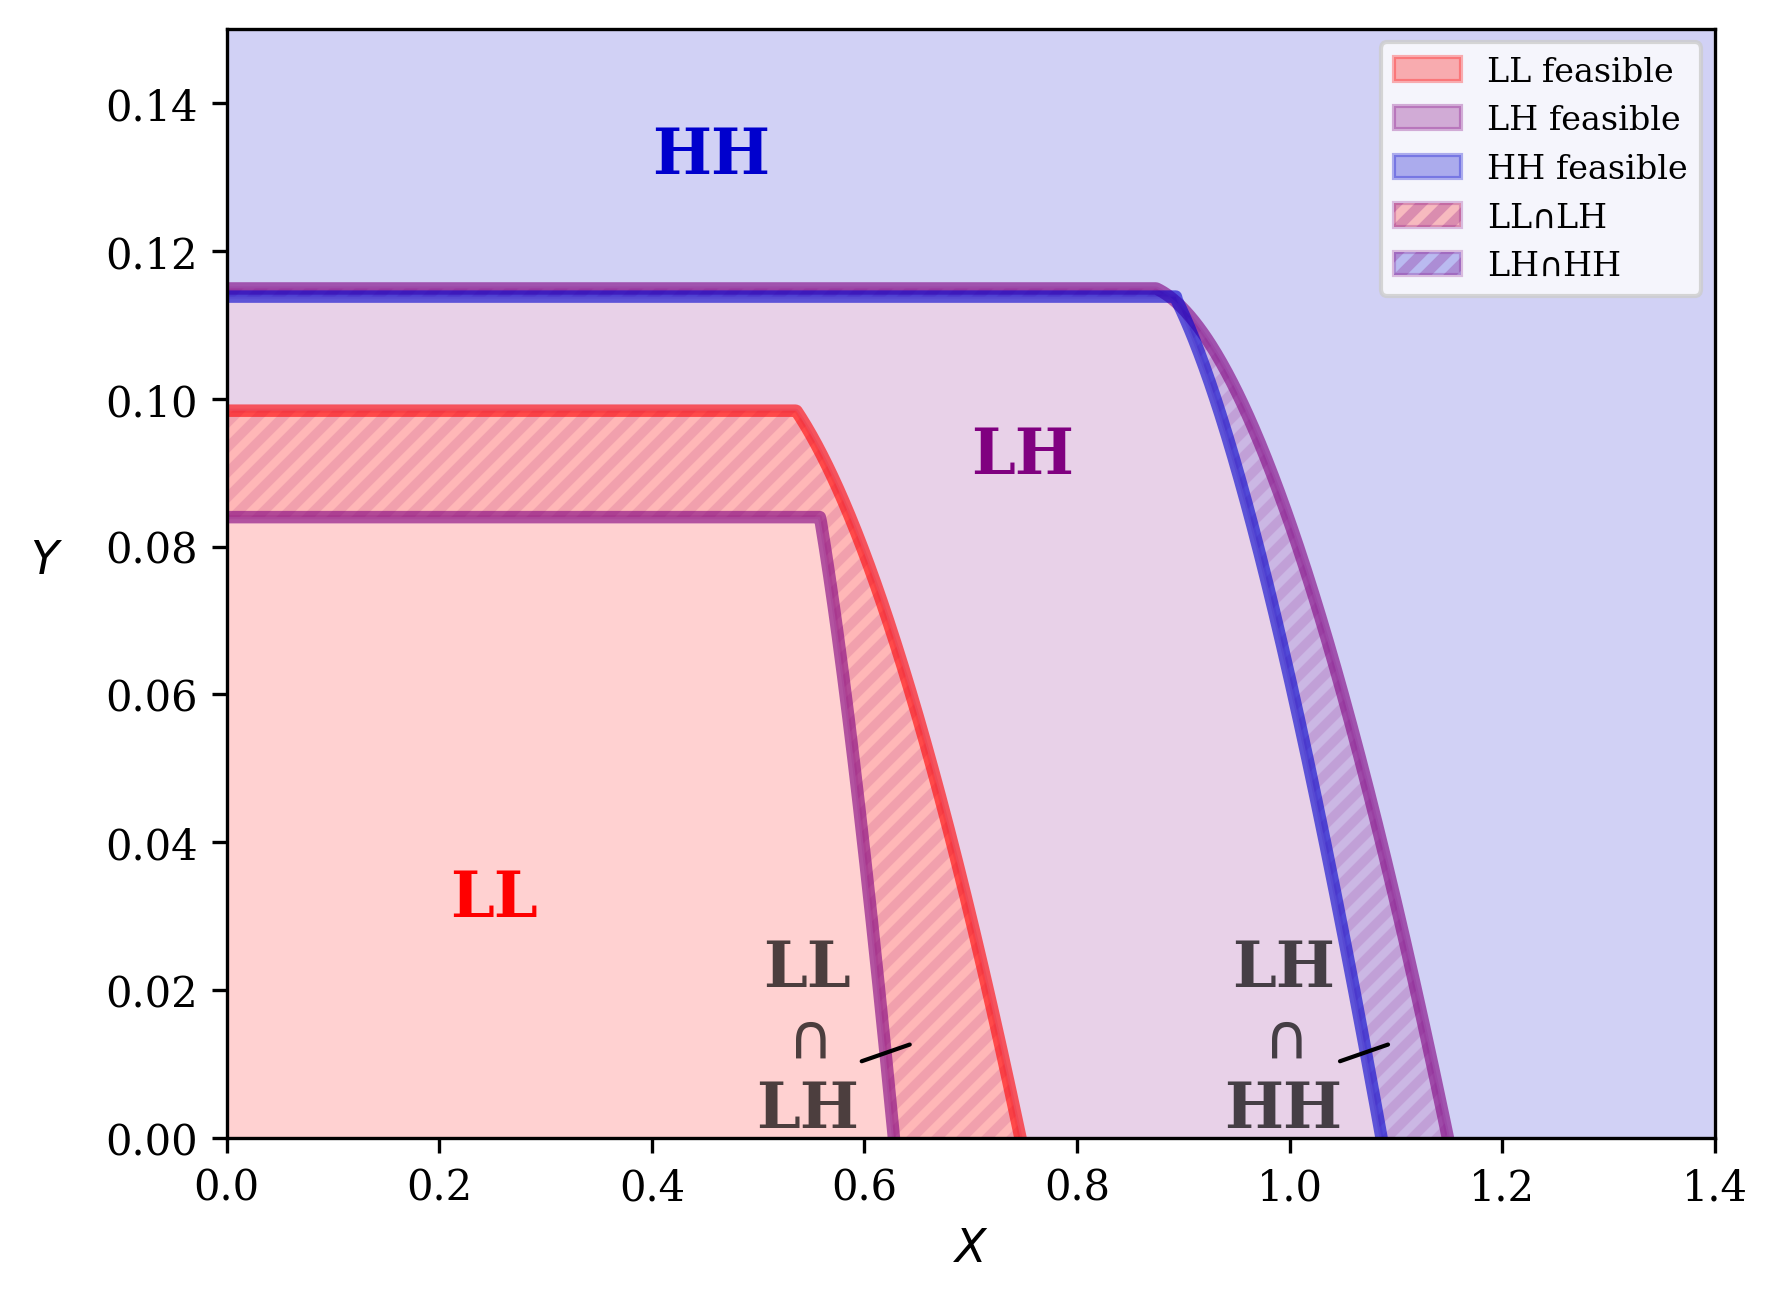
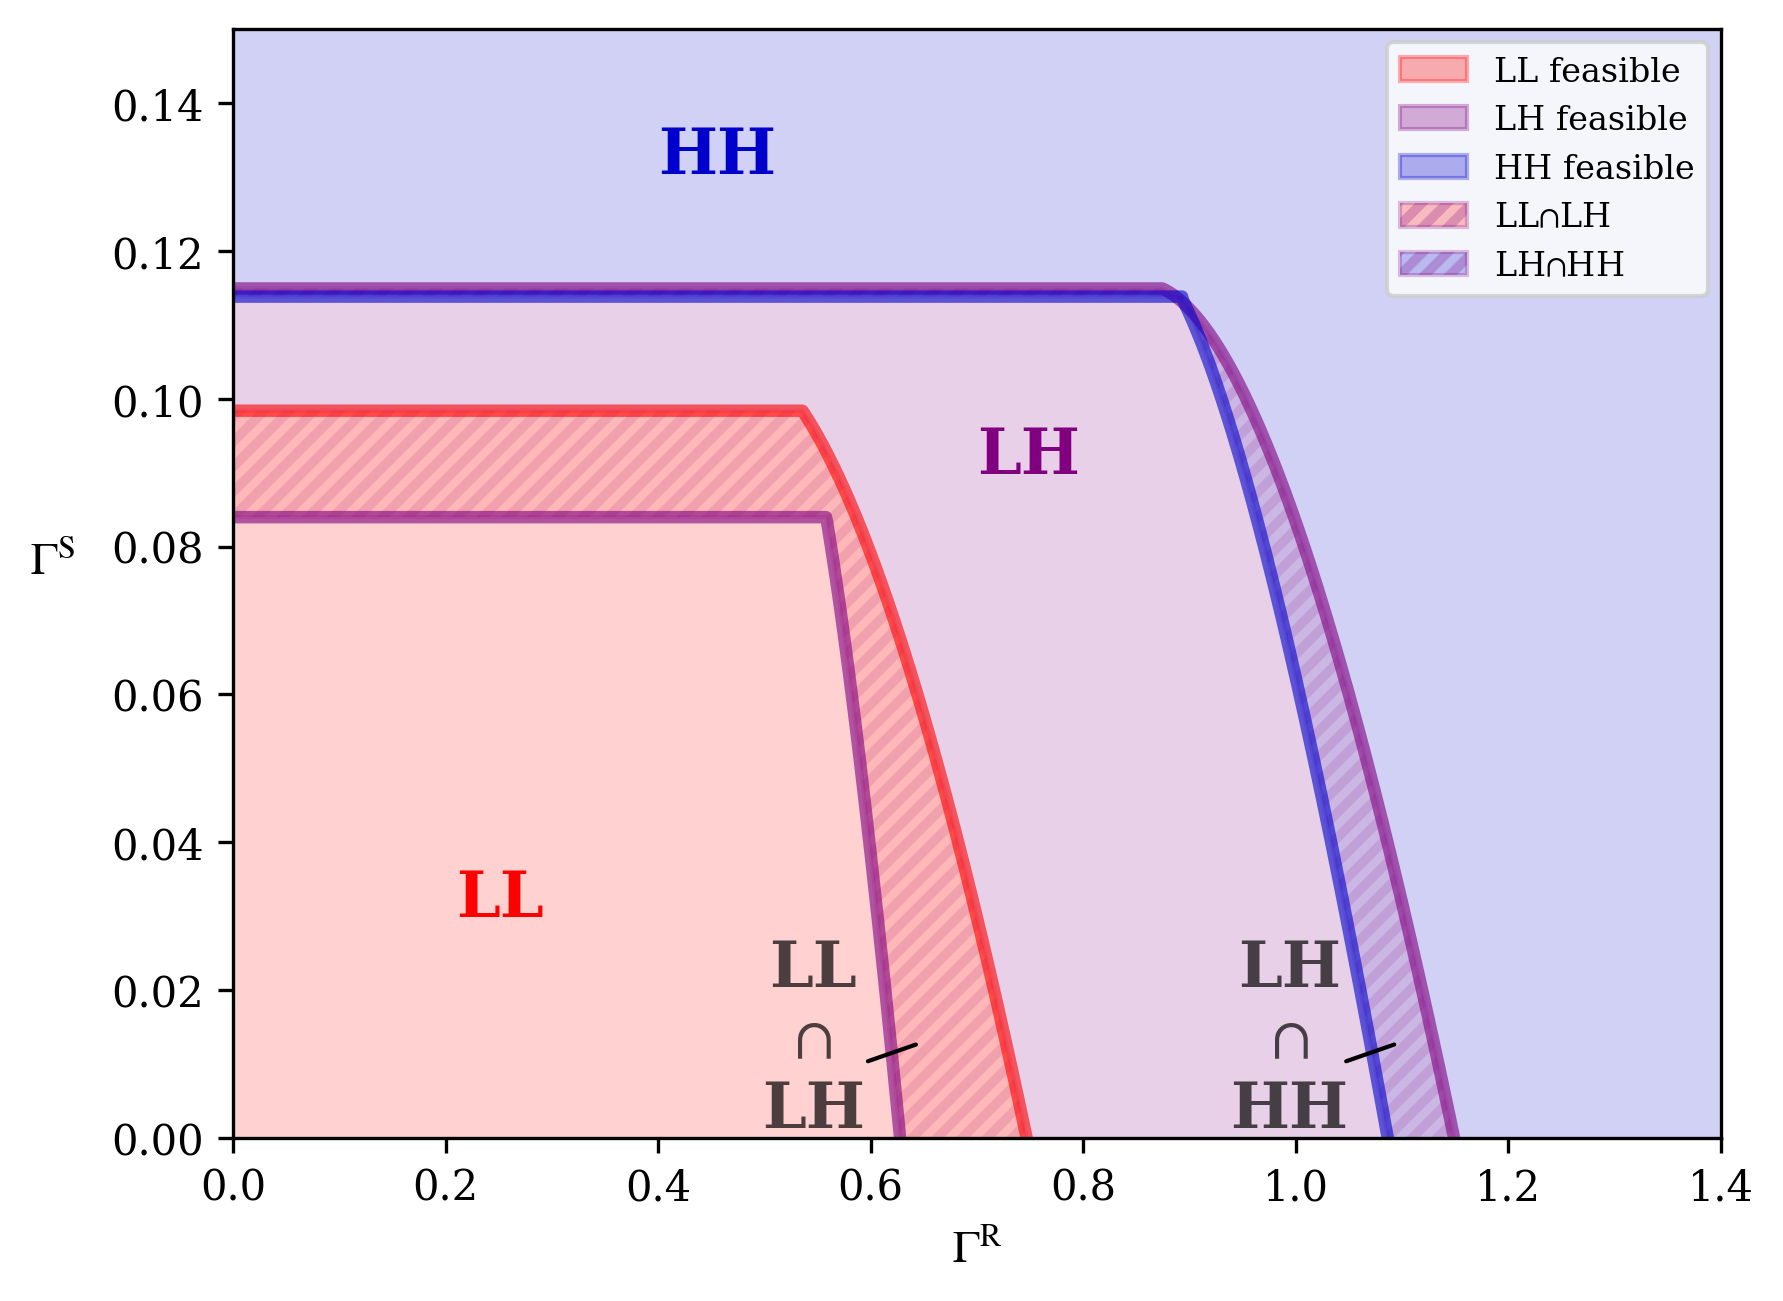
plot updates

diff --git a/plotsforpaper.py b/plotsforpaper.py
@@ -12,6 +12,7 @@ import matplotlib.pyplot as plt
 
 np.set_printoptions(precision=3, suppress=True)
 plt.rcParams["font.family"] = "serif"
+plt.rcParams['mathtext.fontset'] = 'stix'
 
 def sqroot(val):
     # Returns square root of val after checking that val is positive; returns NaN otherwise
@@ -1225,7 +1226,7 @@ plt.plot(Xvec, LHsqzprices[:, 1], '--', linewidth=lnwd, color=LHcols[1], alpha=a
 plt.plot(Xvec, HHprices[:, 0], linewidth=lnwd, color=HHcol, alpha=al)
 plt.ylim(0, 0.4)
 plt.xlim(0, Xmax)
-plt.xlabel(r'$X$', fontsize=11)
+plt.xlabel(r'$\Gamma^{\text{R}}$', fontsize=11)
 plt.ylabel(r'$w$', fontsize=11, rotation=0, labelpad=14)
 plt.text(0.09, LLprices[0, 0]+textgap, r'$LL$ (FOC)', color=LLcol, fontsize=14)
 plt.text(0.4-textgap, LLsqzprices[660, 0], r'$LL$ (sqz)', color=LLsqzcol, fontsize=14)
@@ -1277,7 +1278,7 @@ plt.plot(Yvec, HHhldprices[:, 1], linewidth=lnwd, color=HHhldcol, alpha=al)
 plt.plot(Yvec, HHprices[:, 0], linewidth=lnwd, color=HHcol, alpha=al)
 plt.ylim(0, 0.4)
 plt.xlim(0, Ymax)
-plt.xlabel(r'$Y$', fontsize=11)
+plt.xlabel(r'$\Gamma^{\text{S}}$', fontsize=11)
 plt.ylabel(r'$w$', fontsize=11, rotation=0, labelpad=14)
 plt.text(0.002, 0.18, r'$LL$ (FOC)', color=LLcol, fontsize=14)
 plt.text(0.035, 0.295, r'$LH$ (hld)', color=LHcols[2], fontsize=14)
@@ -1378,8 +1379,8 @@ ax.set_xbound(0, Xmax/Kpen)
 ax.set_ybound(0, Ymax/Kpen)
 # plt.xlabel(r'$\theta^{\text{R}}$', fontsize=11)
 # plt.ylabel(r'$\theta^{\text{S}}$', fontsize=11, rotation=0, labelpad=14)
-plt.xlabel(r'$X$', fontsize=11)
-plt.ylabel(r'$Y$', fontsize=11, rotation=0, labelpad=14)
+plt.xlabel(r'$\Gamma^{\text{R}}$', fontsize=11)
+plt.ylabel(r'$\Gamma^{\text{S}}$', fontsize=11, rotation=0, labelpad=14)
 plt.savefig('eqplot_example.png', dpi=300, bbox_inches='tight')
 plt.show()
 
@@ -1471,7 +1472,7 @@ plt.savefig('CS_parac.png', dpi=300, bbox_inches='tight')
 plt.show()
 
 #####################
-# Equilibrium plots
+# Retailer extension plots
 #####################
 def RetPrefh12Overl12(X, scDict):
     cRet, priceSup_2, priceSup_1 = scDict['cRet'], scDict['priceSup_2'], scDict['priceSup_1']
@@ -1743,13 +1744,112 @@ for i in range(numpts):
             print('point ' + str(i) + ' '+ str(j))
             plotMat[i, j, 2] = 1.0
 
-alval=0.5
+# Get line segments for boundaries
+# First get intersection points
+def BDh12l12(w, X, scDict):
+    rhoR, b, cR, h, l = scDict['inspSensRet'], scDict['b'], scDict['cRet'], scDict['rateRetHi'], scDict['rateRetLo']
+    numer = sqroot( cR*(2 - cR - 2 * w))
+    denom = sqroot( 2*(1 + b) * (h - l) * X * rhoR)
+    return numer / denom
+
+def BDh12h1(w, X, scDict):
+    rhoR, b, cR, h, l = scDict['inspSensRet'], scDict['b'], scDict['cRet'], scDict['rateRetHi'], scDict['rateRetLo']
+    inner = h * X * rhoR * ((b ** 2 - 1) * (cR + w - 1) ** 2 + (1 + b) ** 2 * h * X * rhoR)
+    return 0.5 * (1 + sqroot(inner) / ((1 + b) * h * X * rhoR))
+
+def wStartBDh1l12(X, scDict):
+    rhoR, b, cR, h, l = scDict['inspSensRet'], scDict['b'], scDict['cRet'], scDict['rateRetHi'], scDict['rateRetLo']
+    numer = (-(1 + b * (cR - 1) + cR) * l
+            + sqroot((1 + b) * l * (2 * cR ** 2 * l - (b - 1) * h ** 2 * X * rhoR)))
+    denom = (b - 1) * l
+    return numer / denom
+
+def BDh1l12A(w, X, scDict):
+    rhoR, b, cR, h, l = scDict['inspSensRet'], scDict['b'], scDict['cRet'], scDict['rateRetHi'], scDict['rateRetLo']
+    inner = (1 + b) * X * rhoR * (l * (cR ** 2 + 2 * cR * (w - 1) - (w - 1) ** 2 + b * (cR + w - 1) ** 2)
+            + (1 + b) * h ** 2 * X * rhoR)
+    numer = (1 + b) * h * X * rhoR + sqroot(inner)
+    denom = 2 * (1 + b) * l * X * rhoR
+    return numer / denom
+
+def BDh1l12B(w, X, scDict):
+    rhoR, b, cR, h, l = scDict['inspSensRet'], scDict['b'], scDict['cRet'], scDict['rateRetHi'], scDict['rateRetLo']
+    inner = (1 + b) * X * rhoR * (l * (cR ** 2 + 2 * cR * (w - 1) - (w - 1) ** 2 + b * (cR + w - 1) ** 2)
+            + (1 + b) * h ** 2 * X * rhoR)
+    numer = (1 + b) * h * X * rhoR - sqroot(inner)
+    denom = 2 * (1 + b) * l * X * rhoR
+    return numer / denom
+
+def BDh1l1(w, X, scDict):
+    rhoR, b, cR, h, l = scDict['inspSensRet'], scDict['b'], scDict['cRet'], scDict['rateRetHi'], scDict['rateRetLo']
+    return cR * (2 - cR - 2 * w) / (4 * (h - l) * X * rhoR)
+
+def wStartBDl1l12A(X, scDict):
+    rhoR, b, cR, h, l = scDict['inspSensRet'], scDict['b'], scDict['cRet'], scDict['rateRetHi'], scDict['rateRetLo']
+    return 1 - ((1 + b) * l * X * rhoR / (1 - b)) ** 0.5
+
+def BDl1l12A(w, X, scDict):
+    rhoR, b, cR, h, l = scDict['inspSensRet'], scDict['b'], scDict['cRet'], scDict['rateRetHi'], scDict['rateRetLo']
+    inner = l * X * rhoR * ((b ** 2 - 1) * (w - 1) ** 2 + (1 + b) ** 2 * l * X * rhoR)
+    return 0.5 * (1 + sqroot(inner) / ((1 + b) * l * X * rhoR))
+
+def BDl1l12B(w, X, scDict):
+    rhoR, b, cR, h, l = scDict['inspSensRet'], scDict['b'], scDict['cRet'], scDict['rateRetHi'], scDict['rateRetLo']
+    inner = l * X * rhoR * ((b ** 2 - 1) * (w - 1) ** 2 + (1 + b) ** 2 * l * X * rhoR)
+    return 0.5 * (1 - sqroot(inner) / ((1 + b) * l * X * rhoR))
+
+# First plot: X = 0.08
+# List approximate intersection points here
+wInt1, wInt2, wInt3, wInt4 = 0.424, 0.443, 0.58, 0.54
+wBDh1l12, wBDl1l12 = wStartBDh1l12(X, scDict), wStartBDl1l12A(X, scDict)
+
+# Get boundary lines
+wVec = np.arange(0.01, 0.99, (0.99-0.01)/numpts)
+wAVec, wYVec, wBVec, bdAVec, bdYVec, bdBVec = [], [], [], [], [], []
+bdAadj, bdAadj2, bdBadj = 0.022, 0.019,0.0025
+bdYadj = 0.010
+for wCurr in wVec:
+    if wCurr <= wInt1:
+        wAVec.append(wCurr)
+        bdAVec.append(BDh12l12(wCurr, X, scDict)+bdAadj)
+        wYVec.append(wCurr)
+        bdYVec.append(BDh12l12(wCurr, X, scDict)+bdYadj)
+    elif wCurr > wInt1+0.002:
+        wAVec.append(wCurr)
+        bdAVec.append(BDh12h1(wCurr, X, scDict)+bdAadj2)
+    if wCurr <= wInt1-0.009:
+        wBVec.append(wCurr)
+        bdBVec.append(BDh12l12(wCurr, X, scDict) - bdBadj)
+    if wCurr >= wBDh1l12 and wCurr <= wInt1: # Upper portion of h1-l12 boundary
+        wYVec.append(wCurr+0.005)
+        bdYVec.append(BDh1l12A(wCurr, X, scDict)+bdYadj)
+    if wCurr >= wBDh1l12 and wCurr <= wInt2: # Lower portion of h1-l12 boundary
+        wYVec.append(wCurr)
+        bdYVec.append(BDh1l12B(wCurr, X, scDict)+bdYadj)
+        wBVec.append(wCurr-0.008)
+        bdBVec.append(BDh1l12B(wCurr, X, scDict))
+    if wCurr > wInt2 and wCurr < wInt3:  # h1-l1 boundary
+        wYVec.append(wCurr)
+        bdYVec.append(BDh1l1(wCurr, X, scDict))
+for wCurr in reversed(wVec):
+    if wCurr >= wBDh1l12 and wCurr <= wInt1-0.006: # Upper portion of h1-l12 boundary
+        wBVec.append(wCurr - 0.02)
+        bdBVec.append(BDh1l12A(wCurr, X, scDict))
+    if wCurr >= wBDl1l12 and wCurr < wInt2-0.003: # Upper portion of l1-l12 boundary
+        wBVec.append(wCurr)
+        bdBVec.append(BDl1l12A(wCurr, X, scDict))
+for wCurr in wVec:
+    if wCurr >= wBDl1l12 and wCurr <= wInt4: # Lower portion of l1-l12 boundary
+        wBVec.append(wCurr)
+        bdBVec.append(BDl1l12B(wCurr, X, scDict))
+
+alval, reglabsize, bdlabsize, bdWidth = 0.5, 18, 22, 2.5
 fig = plt.figure()
 # ax.set_title(rf"Equilibrium regions ($b=0.8,\ c_S={cS}$)", fontsize=12, pad=16)
 # fig.suptitle(r'$b=$'+str(b)+', '+r'$L=$'+str(supRateLo),fontsize=18, fontweight='bold')
 ax = fig.add_subplot(111)
 
-eqcolors = ['royalblue', 'firebrick', 'cornflowerblue', 'indianred', 'dimgray']
+eqcolors = ['royalblue', 'indianred', 'cornflowerblue', 'lightcoral', 'dimgray']
 labels = ['h12', 'l12', 'h1', 'l1', 'N']
 
 imlist = []
@@ -1764,21 +1864,164 @@ for eqind in reversed(range(len(labels))):
                             extent=(0, 1, 0, 1),
                             origin="lower", cmap=mycmap, alpha=alval)
     imlist.append(im)
+# Plot boundaries
+plt.plot(wAVec, bdAVec, dashes=[0.7, 0.7], color='indigo', alpha=0.8, linewidth=bdWidth)
+plt.plot(wYVec, bdYVec, '-.', color='darkgreen', alpha=0.8, linewidth=bdWidth)
+plt.plot(wBVec, bdBVec, '--', color='saddlebrown', alpha=0.8, linewidth=bdWidth)
 plt.ylim(0, 1.0)
 plt.xlim(0, 1.0)
-plt.text(0.85, 0.5, 'N', color='dimgray', fontsize=18)
-plt.text(0.37, 0.92, 'h12', color='dimgray', fontsize=18)
-plt.text(0.1, 0.3, 'l12', color='dimgray', fontsize=18)
-plt.text(0.52, 0.72, 'h1', color='dimgray', fontsize=18)
-plt.text(0.48, 0.39, 'l1', color='dimgray', fontsize=18)
-plt.xlabel(r'$w_1=w_2$', fontsize=11)
-plt.ylabel(r'$\Lambda_1=\Lambda_2$', fontsize=11, rotation=0, labelpad=14)
-# plt.savefig('retailerStratPrefs.png', dpi=300, bbox_inches='tight')
+plt.text(0.85, 0.5, 'N', color='dimgray', fontsize=reglabsize)
+plt.text(0.37, 0.92, 'h12', color='dimgray', fontsize=reglabsize)
+plt.text(0.1, 0.3, 'l12', color='dimgray', fontsize=reglabsize)
+plt.text(0.57, 0.71, 'h1', color='dimgray', fontsize=reglabsize)
+plt.text(0.48, 0.39, 'l1', color='dimgray', fontsize=reglabsize)
+plt.text(0.57, 0.85, r'$\mathbf{\Lambda}^\text{A}$', color='indigo', fontsize=bdlabsize, alpha=0.9)
+plt.text(0.46, 0.61, r'$\mathbf{\Lambda}^\text{Y}$', color='darkgreen', fontsize=bdlabsize, alpha=0.9)
+plt.text(0.35, 0.35, r'$\mathbf{\Lambda}^\text{B}$', color='saddlebrown', fontsize=bdlabsize, alpha=0.9)
+plt.xlabel(r'$w_1=w_2$', fontsize=14)
+plt.ylabel(r'$\Lambda_1=\Lambda_2$', fontsize=14, rotation=0, labelpad=10)
+ax.yaxis.set_label_coords(-0.09, 0.47)
+plt.savefig('retailerStratPrefs1.png', dpi=300, bbox_inches='tight')
 plt.show()
 
+###
+# Second plot: X = 0.16
+###
+b, cRet, rateSup_1, rateSup_2, rateRetLo, rateRetHi = 0.8, 0.04, 0.92, 0.92, 0.6, 0.9
+inspSensRet, priceSup_1, priceSup_2 = 0.75, 0.25, 0.25
+X = 0.16
+scDict = {'b': b, 'cRet': cRet, 'rateRetLo': rateRetLo, 'rateRetHi': rateRetHi, 'inspSensRet': inspSensRet,
+          'rateSup_1': rateSup_1, 'rateSup_2': rateSup_2, 'priceSup_1': priceSup_1, 'priceSup_2': priceSup_2}
+# Shows the retailer's preferred strategy for various wholesale prices and quality rates of symmetric suppliers
+numpts = 1200  # Resolution of prices and rates
 
+plotMat = np.empty((numpts, numpts, 5))  # h12, l12, h1, l1, N; h2/l2 ignored for symmetric case
+plotMat[:] = 0
+for wInd, wCurr in enumerate(np.arange(0.01,0.99,(0.99-0.01)/numpts)):
+    scDict['priceSup_1'], scDict['priceSup_2'] = wCurr, wCurr
+    for supRateInd, supRateCurr in enumerate(np.arange(0.01, 0.99, (0.99 - 0.01) / numpts)):
+        scDict['rateSup_1'], scDict['rateSup_2'] = supRateCurr, supRateCurr
+        # Identify dominant retailer strategy
+        prefh12l12 = RetPrefh12Overl12(X, scDict)
+        prefh1h12 = RetPrefh1Overh12(X, scDict)
+        prefl1l12 = RetPrefl1Overl12(X, scDict)
+        prefh1l1 = RetPrefh1Overl1(X, scDict)
+        prefh1l12 = RetPrefh1Overl12(X, scDict)
+        prefh12l1 = RetPrefh12Overl1(X, scDict)
+        # h12
+        if prefh12l12 == 1 and prefh1h12 == 0 and prefh12l1 == 1:
+            q1, q2 = RetOptQuants(0, scDict['b'], scDict['cRet'], scDict['priceSup_1'], scDict['priceSup_2'])
+            if RetUtil(X, scDict, 1, supRateCurr, supRateCurr, q1, q2) < 0:  # N strategy dominates
+                plotMat[wInd, supRateInd, 4] = 1
+            else:
+                plotMat[wInd, supRateInd, 0] = 1
+        # l12
+        if prefh12l12 == 0 and prefl1l12 == 0 and prefh1l12 == 0:
+            q1, q2 = RetOptQuants(1, scDict['b'], scDict['cRet'], scDict['priceSup_1'], scDict['priceSup_2'])
+            if RetUtil(X, scDict, 0, supRateCurr, supRateCurr, q1, q2) < 0:  # N strategy dominates
+                plotMat[wInd, supRateInd, 4] = 1
+            else:
+                plotMat[wInd, supRateInd, 1] = 1
+        # h1
+        if prefh1h12 == 1 and prefh1l1 == 1 and prefh1l12 == 1:
+            q1, q2 = RetOptQuants(2, scDict['b'], scDict['cRet'], scDict['priceSup_1'], scDict['priceSup_2'])
+            if RetUtil(X, scDict, 1, supRateCurr, supRateCurr, q1, q2) < 0:  # N strategy dominates
+                plotMat[wInd, supRateInd, 4] = 1
+            else:
+                plotMat[wInd, supRateInd, 2] = 1
+        # l12
+        if prefl1l12 == 1 and prefh1l1 == 0 and prefh12l1 == 0:
+            q1, q2 = RetOptQuants(3, scDict['b'], scDict['cRet'], scDict['priceSup_1'], scDict['priceSup_2'])
+            if RetUtil(X, scDict, 0, supRateCurr, supRateCurr, q1, q2) < 0:  # N strategy dominates
+                plotMat[wInd, supRateInd, 4] = 1
+            else:
+                plotMat[wInd, supRateInd, 3] = 1
 
+# Fill in weird high w points w N
+plotMat[round(0.9*numpts):, :, 2] = 0.0
+plotMat[round(0.9*numpts):, :, 4] = 1.0
+# Fill in blanks
+for i in range(numpts):
+    for j in range(numpts):
+        if np.sum(plotMat[i, j, :]) != 1.0:
+            print('point ' + str(i) + ' '+ str(j))
+            plotMat[i, j, 2] = 1.0
 
+# List approximate intersection points here
+wInt1, wInt2, wInt3, wInt4 = 0.07, 0.21, 0.38, 0.35
+wBDh1l12, wBDl1l12 = wStartBDh1l12(X, scDict), wStartBDl1l12A(X, scDict)
+
+# Get boundary lines
+wVec = np.arange(0.01, 0.99, (0.99-0.01)/numpts)
+wAVec, wYVec, wBVec, bdAVec, bdYVec, bdBVec = [], [], [], [], [], []
+bdAadj, bdAadj2, bdBadj = 0.022, 0.019,0.0025
+bdYadj = 0.010
+for wCurr in wVec:
+    if wCurr <= wInt1:
+        wAVec.append(wCurr)
+        bdAVec.append(BDh12l12(wCurr, X, scDict)+bdAadj)
+        wYVec.append(wCurr)
+        bdYVec.append(BDh12l12(wCurr, X, scDict)+bdYadj)
+    elif wCurr > wInt1+0.02:
+        wAVec.append(wCurr)
+        bdAVec.append(BDh12h1(wCurr, X, scDict)+bdAadj2)
+    if wCurr <= wInt1-0.009:
+        wBVec.append(wCurr)
+        bdBVec.append(BDh12l12(wCurr, X, scDict) - bdBadj)
+    if wCurr >= wBDh1l12 and wCurr <= wInt1: # Upper portion of h1-l12 boundary
+        wYVec.append(wCurr+0.005)
+        bdYVec.append(BDh1l12A(wCurr, X, scDict)+bdYadj)
+    if wCurr >= wBDh1l12 and wCurr <= wInt2: # Lower portion of h1-l12 boundary
+        wYVec.append(wCurr)
+        bdYVec.append(BDh1l12B(wCurr, X, scDict)+bdYadj)
+        wBVec.append(wCurr-0.008)
+        bdBVec.append(BDh1l12B(wCurr, X, scDict))
+    if wCurr > wInt2 and wCurr < wInt3:  # h1-l1 boundary
+        wYVec.append(wCurr)
+        bdYVec.append(BDh1l1(wCurr, X, scDict))
+for wCurr in wVec:
+    if wCurr >= wBDl1l12+0.01 and wCurr <= wInt4: # Lower portion of l1-l12 boundary
+        wBVec.append(wCurr)
+        bdBVec.append(BDl1l12B(wCurr, X, scDict))
+
+alval, reglabsize, bdlabsize, bdWidth = 0.5, 18, 22, 2.5
+
+fig = plt.figure()
+ax = fig.add_subplot(111)
+eqcolors = ['royalblue', 'indianred', 'cornflowerblue', 'lightcoral', 'dimgray']
+labels = ['h12', 'l12', 'h1', 'l1', 'N']
+
+imlist = []
+for eqind in reversed(range(len(labels))):
+    mycmap = matplotlib.colors.ListedColormap(['none', eqcolors[eqind]], name='from_list', N=None)
+    # if eqcolors[eqind] == 'black':  # No alpha transparency
+    #     im = ax.imshow(eqStrat_matList[eqind], vmin=0, vmax=1, aspect='auto',
+    #                         extent=(0, CthetaMax, 0, cSupMax),
+    #                         origin="lower", cmap=mycmap, alpha=1)
+    # else:
+    im = ax.imshow(plotMat[:,:,eqind].T, vmin=0, vmax=1, aspect='auto',
+                            extent=(0, 1, 0, 1),
+                            origin="lower", cmap=mycmap, alpha=alval)
+    imlist.append(im)
+# Plot boundaries
+plt.plot(wAVec, bdAVec, dashes=[0.7, 0.7], color='indigo', alpha=0.8, linewidth=bdWidth)
+plt.plot(wYVec, bdYVec, '-.', color='darkgreen', alpha=0.8, linewidth=bdWidth)
+plt.plot(wBVec, bdBVec, '--', color='saddlebrown', alpha=0.8, linewidth=bdWidth)
+plt.ylim(0, 1.0)
+plt.xlim(0, 1.0)
+plt.text(0.85, 0.5, 'N', color='dimgray', fontsize=reglabsize)
+plt.text(0.03, 0.89, 'h12', color='dimgray', fontsize=reglabsize)
+plt.text(0.05, 0.17, 'l12', color='dimgray', fontsize=reglabsize)
+plt.text(0.35, 0.59, 'h1', color='dimgray', fontsize=reglabsize)
+plt.text(0.29, 0.28, 'l1', color='dimgray', fontsize=reglabsize)
+plt.text(0.35, 0.835, r'$\mathbf{\Lambda}^\text{A}$', color='indigo', fontsize=bdlabsize, alpha=0.9)
+plt.text(0.225, 0.435, r'$\mathbf{\Lambda}^\text{Y}$', color='darkgreen', fontsize=bdlabsize, alpha=0.9)
+plt.text(0.22, 0.18, r'$\mathbf{\Lambda}^\text{B}$', color='saddlebrown', fontsize=bdlabsize, alpha=0.9)
+plt.xlabel(r'$w_1=w_2$', fontsize=14)
+plt.ylabel(r'$\Lambda_1=\Lambda_2$', fontsize=14, rotation=0, labelpad=10)
+ax.yaxis.set_label_coords(-0.09, 0.47)
+plt.savefig('retailerStratPrefs2.png', dpi=300, bbox_inches='tight')
+plt.show()
 
 
 
